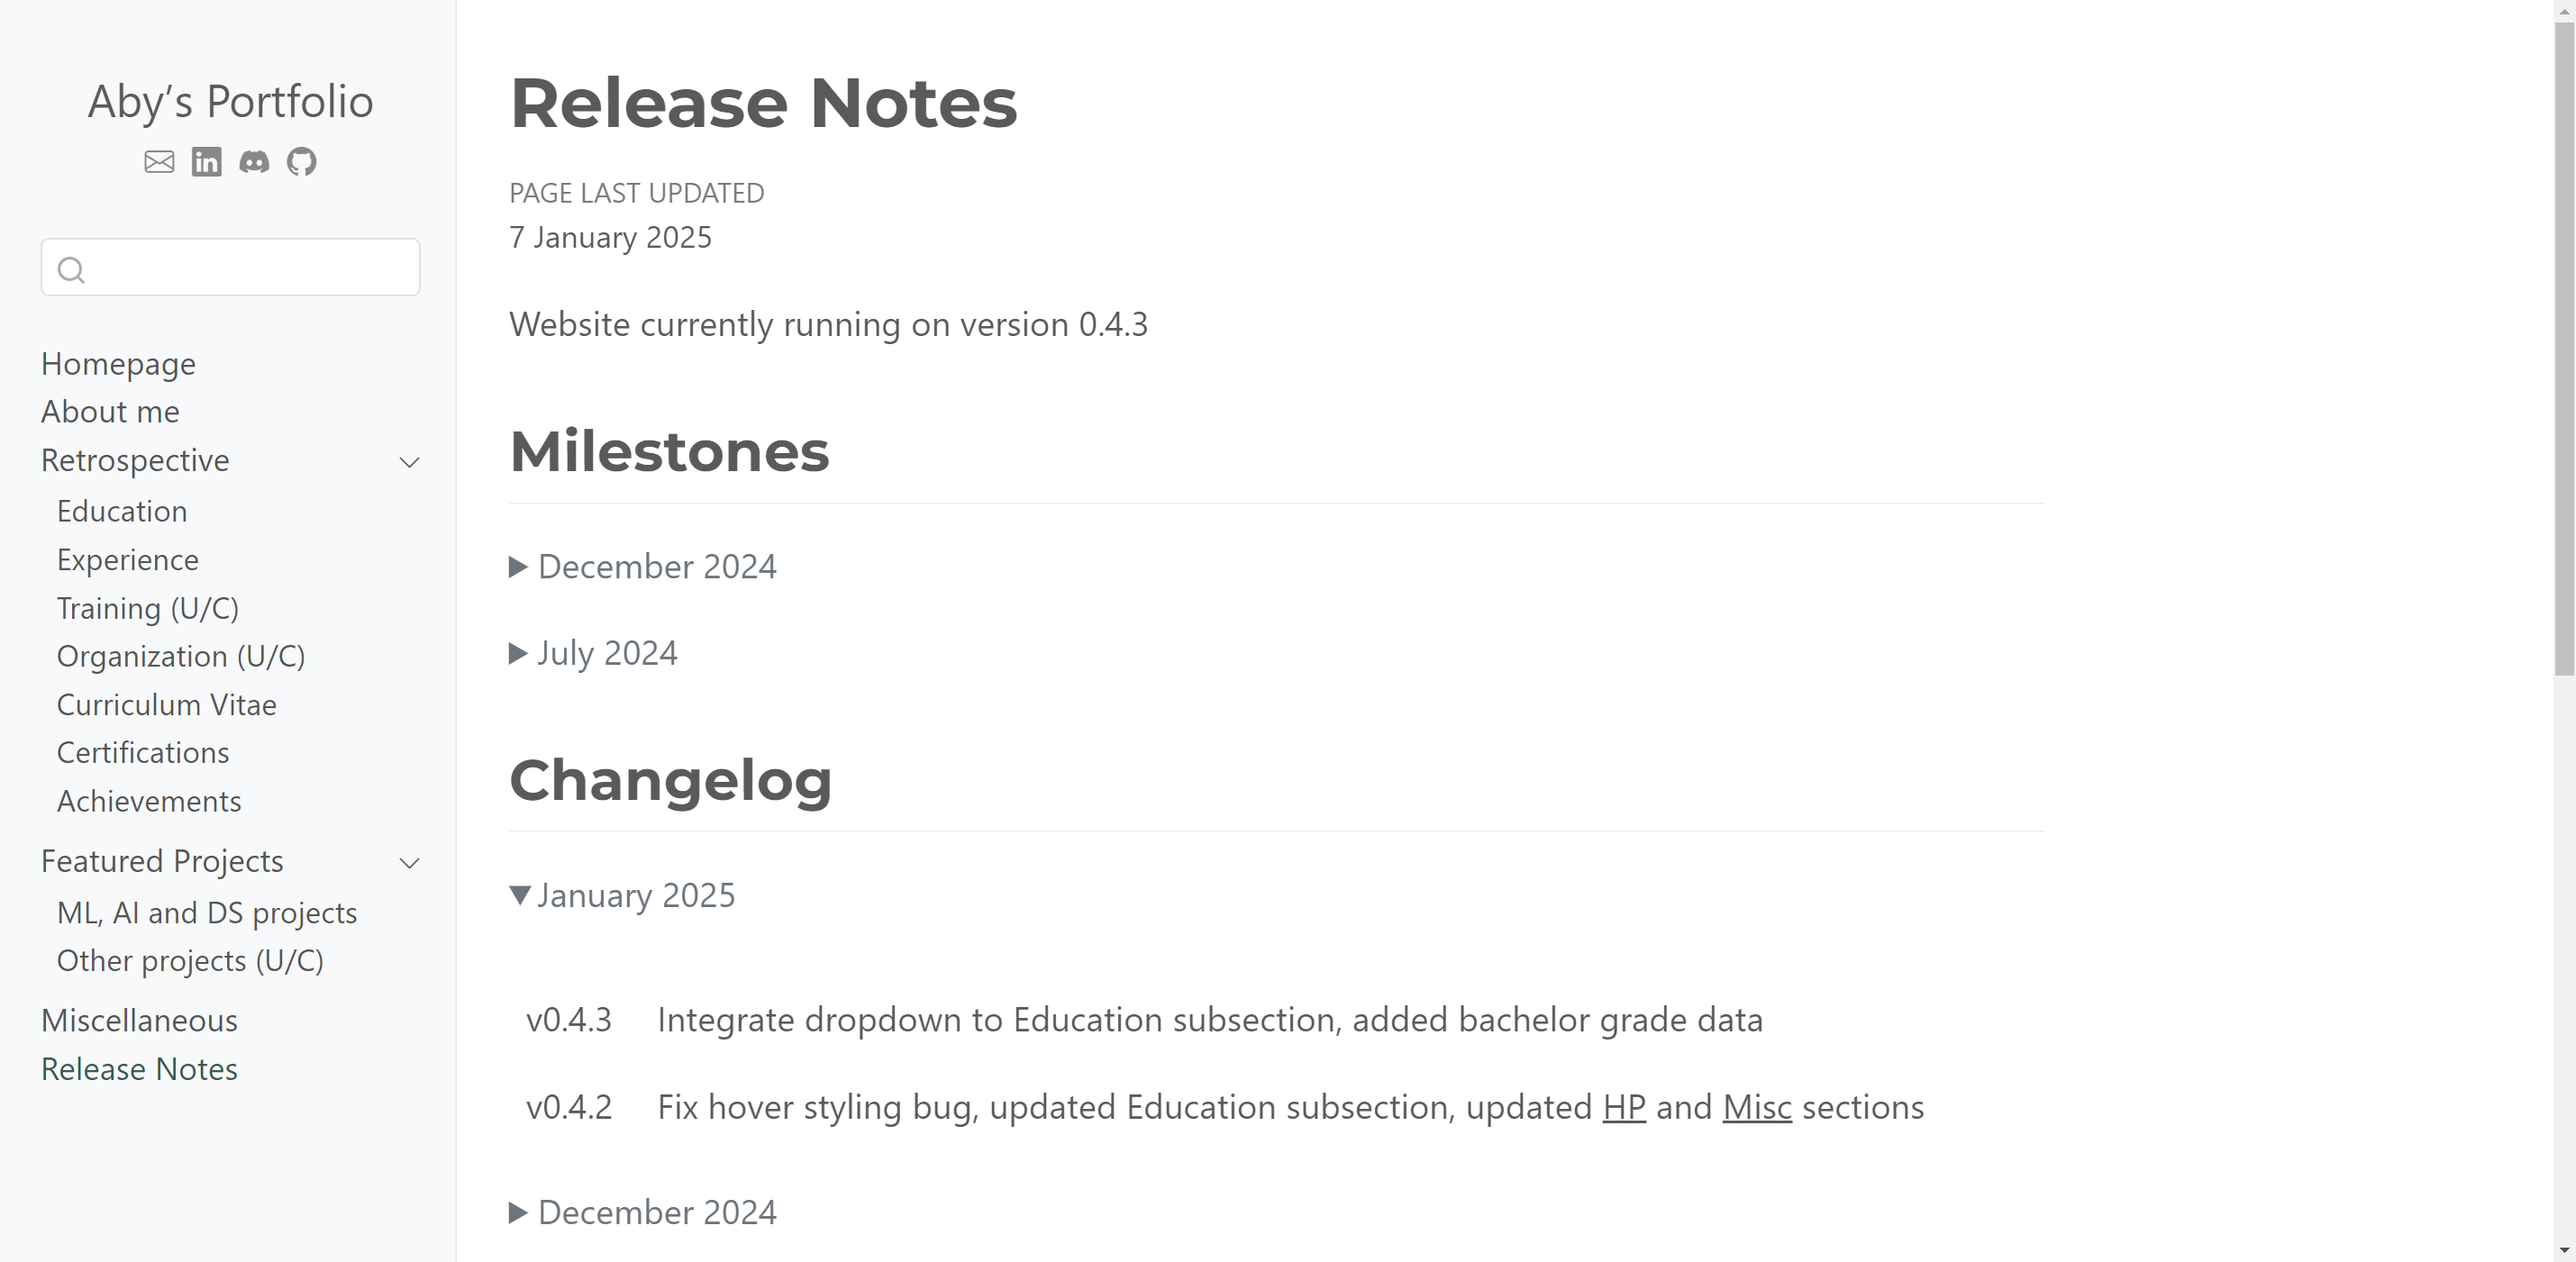
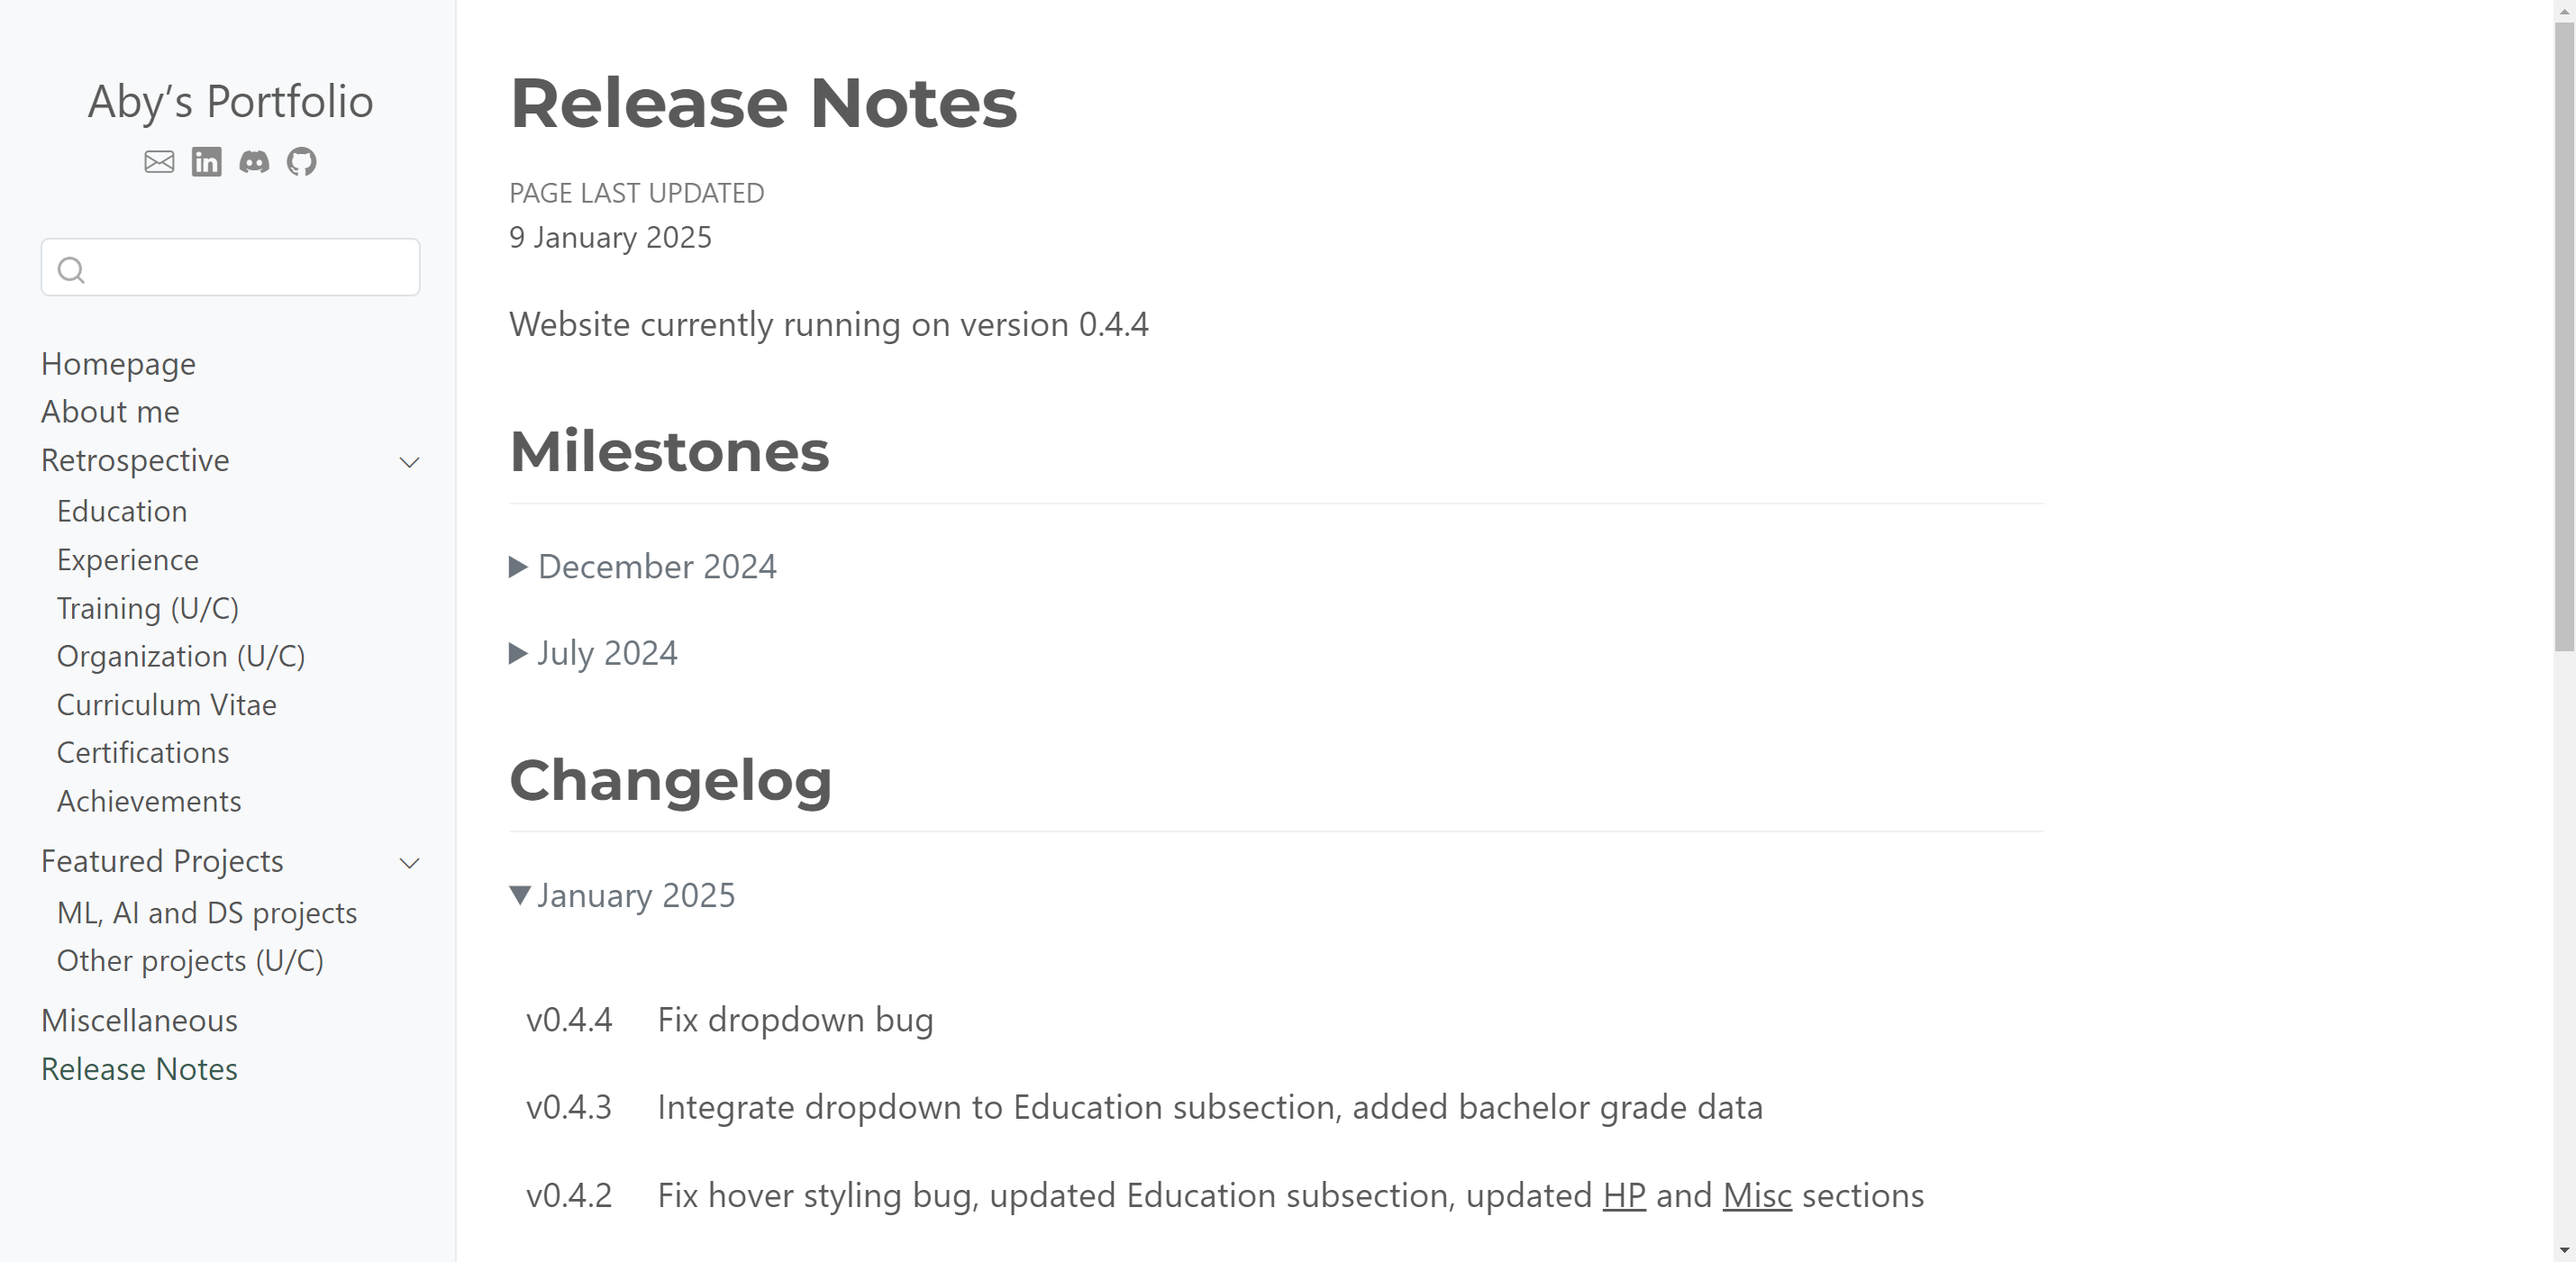
v0.4.4 release; closed #16

diff --git a/docs/retrospective/education.html b/docs/retrospective/education.html
@@ -6,7 +6,7 @@
 
 <meta name="viewport" content="width=device-width, initial-scale=1.0, user-scalable=yes">
 
-<meta name="dcterms.date" content="2025-01-07">
+<meta name="dcterms.date" content="2025-01-09">
 
 <title>Education – Aby’s Portfolio</title>
 <style>
@@ -236,7 +236,7 @@ ul.task-list li input[type="checkbox"] {
     <div>
     <div class="quarto-title-meta-heading">Page Last Updated</div>
     <div class="quarto-title-meta-contents">
-      <p class="date">7 January 2025</p>
+      <p class="date">9 January 2025</p>
     </div>
   </div>
   
@@ -916,6 +916,15 @@ ul.task-list li input[type="checkbox"] {
       }
       clone.classList.add('featured-card');
 
+      // Update child data
+      const semesters = clone.querySelectorAll('.education-semester');
+      semesters.forEach((semester) => {
+        const originalId = semester.getAttribute('id');
+        if (originalId) {
+          semester.setAttribute('id', `${originalId}-featured`);
+        }
+      });
+
       // Add type to card
       const sourceDiv = document.createElement('div');
       sourceDiv.className = 'education-source';
@@ -989,11 +998,18 @@ ul.task-list li input[type="checkbox"] {
     // Toggle the clicked dropdown
     cardElement.classList.toggle('active');
 
-    // Activate the child div
+    // Process child div if specified
     if (childDivId) {
-      const childElement = document.getElementById(childDivId);
+      // Determine if card is featured
+      const isFeatured = cardElement.classList.contains('featured-card');
+      const childElementId = isFeatured ? `${childDivId}-featured` : childDivId;
+
+      // Get child element
+      const childElement = document.getElementById(childElementId);
       if (childElement) {
+        // Activate the child div
         childElement.classList.toggle('active');
+        childElement.style.display = "block";
         // Extract the unique identifier from the childDivId
         const childIdSuffix = childDivId.split("-").pop();
         // Dynamically find the corresponding node point
@@ -1004,8 +1020,6 @@ ul.task-list li input[type="checkbox"] {
         if (targetNode) {
           targetNode.classList.toggle('active');
         }
-        console.log(childIdSuffix);
-        console.log(targetNode);
       }
     }
   }
@@ -1018,8 +1032,14 @@ ul.task-list li input[type="checkbox"] {
     const allDetails = document.querySelectorAll(".education-semester");
     allDetails.forEach((detail) => (detail.style.display = "none"));
 
+    // Determine if card is featured
+    const isFeatured = event.target.closest('.education-card').classList.contains('featured-card');
+    const selectedDetailId = isFeatured
+      ? `${eduCard}-semester-${semester}-featured`
+      : `${eduCard}-semester-${semester}`;
+
     // Show the selected semester's details
-    const selectedDetail = document.getElementById(`${eduCard}-semester-${semester}`);
+    const selectedDetail = document.getElementById(selectedDetailId);
     if (selectedDetail) {
       selectedDetail.style.display = "block";
     }
@@ -1027,7 +1047,6 @@ ul.task-list li input[type="checkbox"] {
     // Highlight the active semester node
     const allNodes = document.querySelectorAll(".education-node-point");
     allNodes.forEach((node) => node.classList.remove('active'));
-
     const selectedNode = event.target;
     selectedNode.classList.add('active');
   }

diff --git a/docs/notes.html b/docs/notes.html
@@ -6,7 +6,7 @@
 
 <meta name="viewport" content="width=device-width, initial-scale=1.0, user-scalable=yes">
 
-<meta name="dcterms.date" content="2025-01-07">
+<meta name="dcterms.date" content="2025-01-09">
 
 <title>Release Notes – Aby’s Portfolio</title>
 <style>
@@ -236,7 +236,7 @@ ul.task-list li input[type="checkbox"] {
     <div>
     <div class="quarto-title-meta-heading">Page Last Updated</div>
     <div class="quarto-title-meta-contents">
-      <p class="date">7 January 2025</p>
+      <p class="date">9 January 2025</p>
     </div>
   </div>
   
@@ -248,7 +248,7 @@ ul.task-list li input[type="checkbox"] {
 </header>
 
 
-<p>Website currently running on version 0.4.3</p>
+<p>Website currently running on version 0.4.4</p>
 <h2 class="anchored">Milestones</h2>
 <details>
   <summary>December 2024</summary>
@@ -305,10 +305,14 @@ ul.task-list li input[type="checkbox"] {
 <td data-quarto-table-cell-role="th"></td>
 </tr>
 <tr class="even">
+<td>v0.4.4</td>
+<td>Fix dropdown bug</td>
+</tr>
+<tr class="odd">
 <td>v0.4.3</td>
 <td>Integrate dropdown to Education subsection, added bachelor grade data</td>
 </tr>
-<tr class="odd">
+<tr class="even">
 <td>v0.4.2</td>
 <td>Fix hover styling bug, updated Education subsection, updated <span title="Home Page"><u>HP</u></span> and <span title="Miscellaneous"><u>Misc</u></span> sections</td>
 </tr>

diff --git a/docs/retrospective/organization.html b/docs/retrospective/organization.html
@@ -6,7 +6,7 @@
 
 <meta name="viewport" content="width=device-width, initial-scale=1.0, user-scalable=yes">
 
-<meta name="dcterms.date" content="2025-01-07">
+<meta name="dcterms.date" content="2025-01-09">
 
 <title>organization – Aby's Portfolio</title>
 <style>
@@ -235,7 +235,7 @@ ul.task-list li input[type="checkbox"] {
     <div>
     <div class="quarto-title-meta-heading">Page Last Updated</div>
     <div class="quarto-title-meta-contents">
-      <p class="date">7 January 2025</p>
+      <p class="date">9 January 2025</p>
     </div>
   </div>
   

diff --git a/docs/retrospective/training.html b/docs/retrospective/training.html
@@ -6,7 +6,7 @@
 
 <meta name="viewport" content="width=device-width, initial-scale=1.0, user-scalable=yes">
 
-<meta name="dcterms.date" content="2025-01-07">
+<meta name="dcterms.date" content="2025-01-09">
 
 <title>training – Aby's Portfolio</title>
 <style>
@@ -235,7 +235,7 @@ ul.task-list li input[type="checkbox"] {
     <div>
     <div class="quarto-title-meta-heading">Page Last Updated</div>
     <div class="quarto-title-meta-contents">
-      <p class="date">7 January 2025</p>
+      <p class="date">9 January 2025</p>
     </div>
   </div>
   

diff --git a/docs/projects/others.html b/docs/projects/others.html
@@ -6,7 +6,7 @@
 
 <meta name="viewport" content="width=device-width, initial-scale=1.0, user-scalable=yes">
 
-<meta name="dcterms.date" content="2025-01-07">
+<meta name="dcterms.date" content="2025-01-09">
 
 <title>others – Aby's Portfolio</title>
 <style>
@@ -235,7 +235,7 @@ ul.task-list li input[type="checkbox"] {
     <div>
     <div class="quarto-title-meta-heading">Page Last Updated</div>
     <div class="quarto-title-meta-contents">
-      <p class="date">7 January 2025</p>
+      <p class="date">9 January 2025</p>
     </div>
   </div>
   

diff --git a/docs/styles.css b/docs/styles.css
@@ -360,17 +360,6 @@ th, td {
   position: relative;
 }
 
-.education-timeline::after {
-  content: '';
-  position: absolute;
-  width: 90%;
-  height: 2px;
-  background: #ddd;
-  top: 50%;
-  left: 5%;
-  z-index: -1;
-}
-
 .education-node {
   display: flex;
   flex-direction: column;

diff --git a/styles.css b/styles.css
@@ -360,17 +360,6 @@ th, td {
   position: relative;
 }
 
-.education-timeline::after {
-  content: '';
-  position: absolute;
-  width: 90%;
-  height: 2px;
-  background: #ddd;
-  top: 50%;
-  left: 5%;
-  z-index: -1;
-}
-
 .education-node {
   display: flex;
   flex-direction: column;

diff --git a/README.md b/README.md
@@ -12,4 +12,4 @@ The release notes are accessible at [abyoso-hapsoro.github.io/notes.html](https:
 ## References
 [1] Hand, N. (2023). *From Notebooks to the Web: Quarto & GitHub Pages*. <<a href="https://musa-550-fall-2023.github.io/content/week-9/lecture-9A.html">https://musa-550-fall-2023.github.io/content/week-9/lecture-9A.html</a>><br>
 [2] Vasania, I. (2023). *Ishank Vasania - Portfolio*. <<a href="https://ishank09.github.io/profile">https://ishank09.github.io/profile</a>><br>
-[3] Wijaya, A.A. (2023). *Personal Website using Jupyter Notebook and Quarto* <<a href="https://adtarie.net/posts/007-quarto-python-tutorial/">https://adtarie.net/posts/007-quarto-python-tutorial/</a>>
+[3] Wijaya, A.A. (2023). *Personal Website using Jupyter Notebook and Quarto*. <<a href="https://adtarie.net/posts/007-quarto-python-tutorial/">https://adtarie.net/posts/007-quarto-python-tutorial/</a>>
